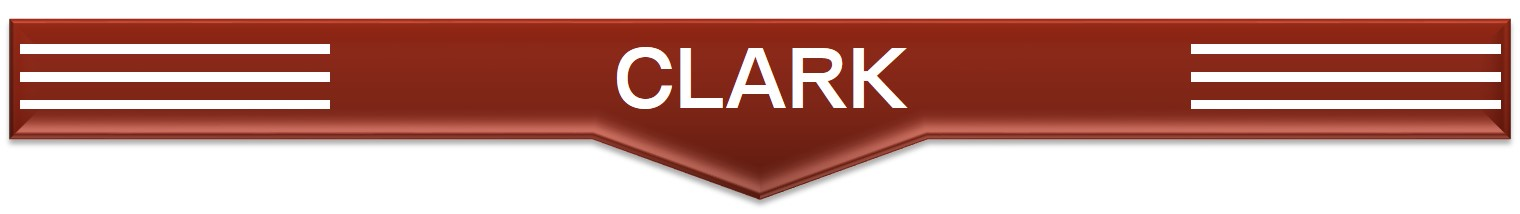
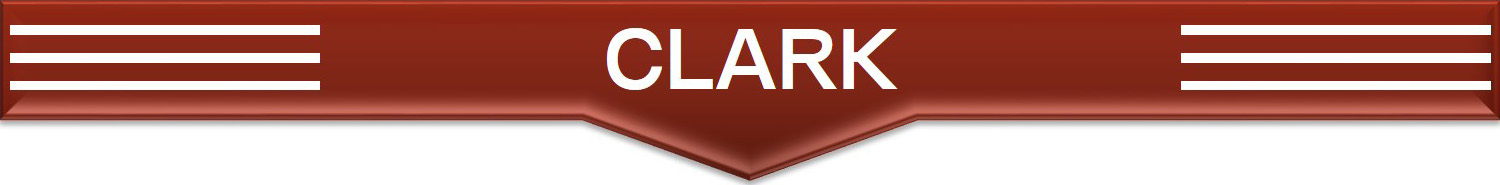
home page starting over
using css and bootstrapping, i'm starting over and not using anyone
else's code to build the home page

Changed region(s): [[0.0, 0.0, 1.0, 0.6757], [0.3987, 0.1351, 0.6133, 0.5135], [0.3987, 0.6486, 0.6133, 1.0]]

diff --git a/home/CLARK home.html b/home/CLARK home.html
@@ -2,54 +2,70 @@
 <html>
 
 <head>
-<img src="CLARK_banner.jpg" width="100%" height="100%">
-<link rel="stylesheet" href="home.css" type="text/css" />
+
+  <meta charset="utf-8">
+  <meta name="viewport" content="width=device-width, initial-scale=1">
+  <link rel="stylesheet" href="http://maxcdn.bootstrapcdn.com/bootstrap/3.3.5/css/bootstrap.min.css">
+  <script src="https://ajax.googleapis.com/ajax/libs/jquery/1.11.3/jquery.min.js"></script>
+  <script src="http://maxcdn.bootstrapcdn.com/bootstrap/3.3.5/js/bootstrap.min.js"></script>
+
+  <link rel="stylesheet" href="home.css" type="text/css" />
+  
 </head>
 
 <body>
-	<style>
-		/* General Styles */
-		h4 { color: #c5c5c5; margin-top: 50px; }
-		body {margin: 0; font-family: Arial;}
-		div#nav {text-align:center;}
-	</style>
-
-
-		<ul class="dropdown-header">
-			<li><a href="#"><center>Issues</center></a>
-				<ul class="dropdown-menu">
-					<li><a href="#">Awaiting Action</a></li>
-					<li><a href="#">Current</a></li>
-					<li><a href="#">Resolved</a></li>
-				</ul>
-			</li>
-		</ul>
-
-
-		<ul class="dropdown-header">
-			<li><a href="#"><center>Progress</center></a>
-				<ul class="dropdown-menu">
-					<li><a href="#">Awaiting Action</a></li>
-					<li><a href="#">Current</a></li>
-					<li><a href="#">Resolved</a></li>
-				</ul>
-			</li>
-		</ul>
-		
-
-		<ul class="dropdown-header">
-			<li><a href="#"><center>About Us</center></a>
-				<ul class="dropdown-menu">
-					<li><a href="#">Awaiting Action</a></li>
-					<li><a href="#">Current</a></li>
-					<li><a href="#">Resolved</a></li>
-				</ul>
-			</li>
-		</ul>
+	<div id="logo">
+	<img id="banner" src="CLARK_banner.jpg">
 	</div>
 	
-	<!---<script src="location of javascript file"-->
-	<script src="home.js"></script>
+	<div class="container-fluid">
+  <div class="row">
+    <div class="col-sm-4">
+			<div id="Issues">
+			<div class="dropdown">
+			<button class="btn btn-primary dropdown-toggle" type="button" data-toggle="dropdown">Issues
+			<span class="caret"></span></button>
+			<ul class="dropdown-menu">
+			  <li><a href="#">HTML</a></li>
+			  <li><a href="#">CSS</a></li>
+			  <li><a href="#">JavaScript</a></li>
+			</ul>
+		  </div>
+		  </div>
+    </div>
+	
+    <div class="col-sm-4">
+		<div id="Issues">
+	<div class="dropdown">
+    <button class="btn btn-primary dropdown-toggle" type="button" data-toggle="dropdown">Issues
+    <span class="caret"></span></button>
+    <ul class="dropdown-menu">
+      <li><a href="#">HTML</a></li>
+      <li><a href="#">CSS</a></li>
+      <li><a href="#">JavaScript</a></li>
+    </ul>
+  </div>
+  </div>
+    </div>
+	
+    <div class="col-sm-4">
+		<div id="Issues">
+	<div class="dropdown">
+    <button class="btn btn-primary dropdown-toggle" type="button" data-toggle="dropdown">Issues
+    <span class="caret"></span></button>
+    <ul class="dropdown-menu">
+      <li><a href="#">HTML</a></li>
+      <li><a href="#">CSS</a></li>
+      <li><a href="#">JavaScript</a></li>
+    </ul>
+  </div>
+  </div>
+    </div>
+  </div>
+</div>
+
+
+
 </body>
 
 </html>

diff --git a/home/home.css b/home/home.css
@@ -1,128 +1,14 @@
-/*
- * @freebie: dropdown-menu
- * @author: Francisco Neves
- */
-ul.dropdown-menu li ul
-{
-	display: none;
-	list-style: none;
-	text-align: left;
+body{
+	margin: 0px;
 }
 
-ul.dropdown-menu li:hover ul
-{
-	display: table;
-	margin: 0 auto;
-	background-color: #e9e9e9;
-
-	-moz-box-shadow: 0 0 6px 1px rgba(0, 0, 0, 0.5);
-	-webkit-box-shadow: 0 0 6px 1px rgba(0, 0, 0, 0.5);
-	box-shadow: 0 0 6px 1px rgba(0, 0, 0, 0.5);
+#banner{
+	height: 100%;
+	width:100%;
+	margin-top: 20px;
 }
 
-ul.dropdown-menu
-{
-	padding: 0 20px;
-	border-radius: 10px;
-	list-style: none;
-	position: relative;
-	display: table;
-	padding: 0;
-	margin: 0;
+.dropdown-menu{
+	text-align: center;
 }
 
-ul.dropdown-menu::after
-{
-	content: "";
-	display: table;
-	margin: 0 auto;
-}
-
-ul.dropdown-menu ul > li:hover
-{
-	background: #4b545f;
-	background: linear-gradient(top, #4f5964 0%, #5f6975 40%);
-	background: -moz-linear-gradient(top, #4f5964 0%, #5f6975 40%);
-	background: -webkit-linear-gradient(top, #4f5964 0%,#5f6975 40%);
-}
-
-ul.dropdown-menu li:hover a
-{
-	color: #676767;
-}
-
-ul.dropdown-menu li a
-{
-	display: block;
-	color: #757575;
-	text-decoration: none;
-}
-
-ul.dropdown-menu > li
-{
-	border-radius: 8px;
-}
-
-ul.dropdown-menu > li > a
-{	
-	color: #4a4949;
-	background-color: #c5c5c5;
-	border: 1px solid rgba(0, 0, 0, 0.2);
-	border-radius: 8px;
-	position: relative;
-	padding: 10px 15px;
-	width: 140px;
-	z-index: 5;
-	font-size: 14px;
-
-	-moz-box-shadow: 0 4px 10px -3px #000;
-	-webkit-box-shadow: 0 4px 10px -3px #000;
-	box-shadow: 0 4px 10px -3px #000;
-}
-
-ul.dropdown-menu > li > a:hover
-{
-	background-color: #dc4d30;
-	color: #FFF;
-}
-
-ul.dropdown-menu > li > a > img
-{
-	float: right;
-	border: none;
-}
-
-ul.dropdown-menu ul
-{
-	border-radius: 0px;
-	padding: 0;
-}
-
-ul.dropdown-menu ul li
-{
-	float: none; 
-	position: relative;
-	border-bottom: 1px solid transparent;
-}
-
-ul.dropdown-menu ul li a
-{
-	font-size: 13px;
-	padding: 10px;
-	color: #676767;
-	width: 120px;
-}
-
-ul.dropdown-menu ul li:hover
-{
-	background: #cecece;
-	border-bottom: 1px solid #fff;
-	-moz-box-shadow: inset 0 7px 9px -8px #000;
-	-webkit-box-shadow: inset 0 7px 9px -8px #000;
-	box-shadow: inset 0 7px 9px -8px #000;
-}
-
-ul.dropdown-menu ul li:last-child:hover
-{
-	border-bottom: none;
-}
